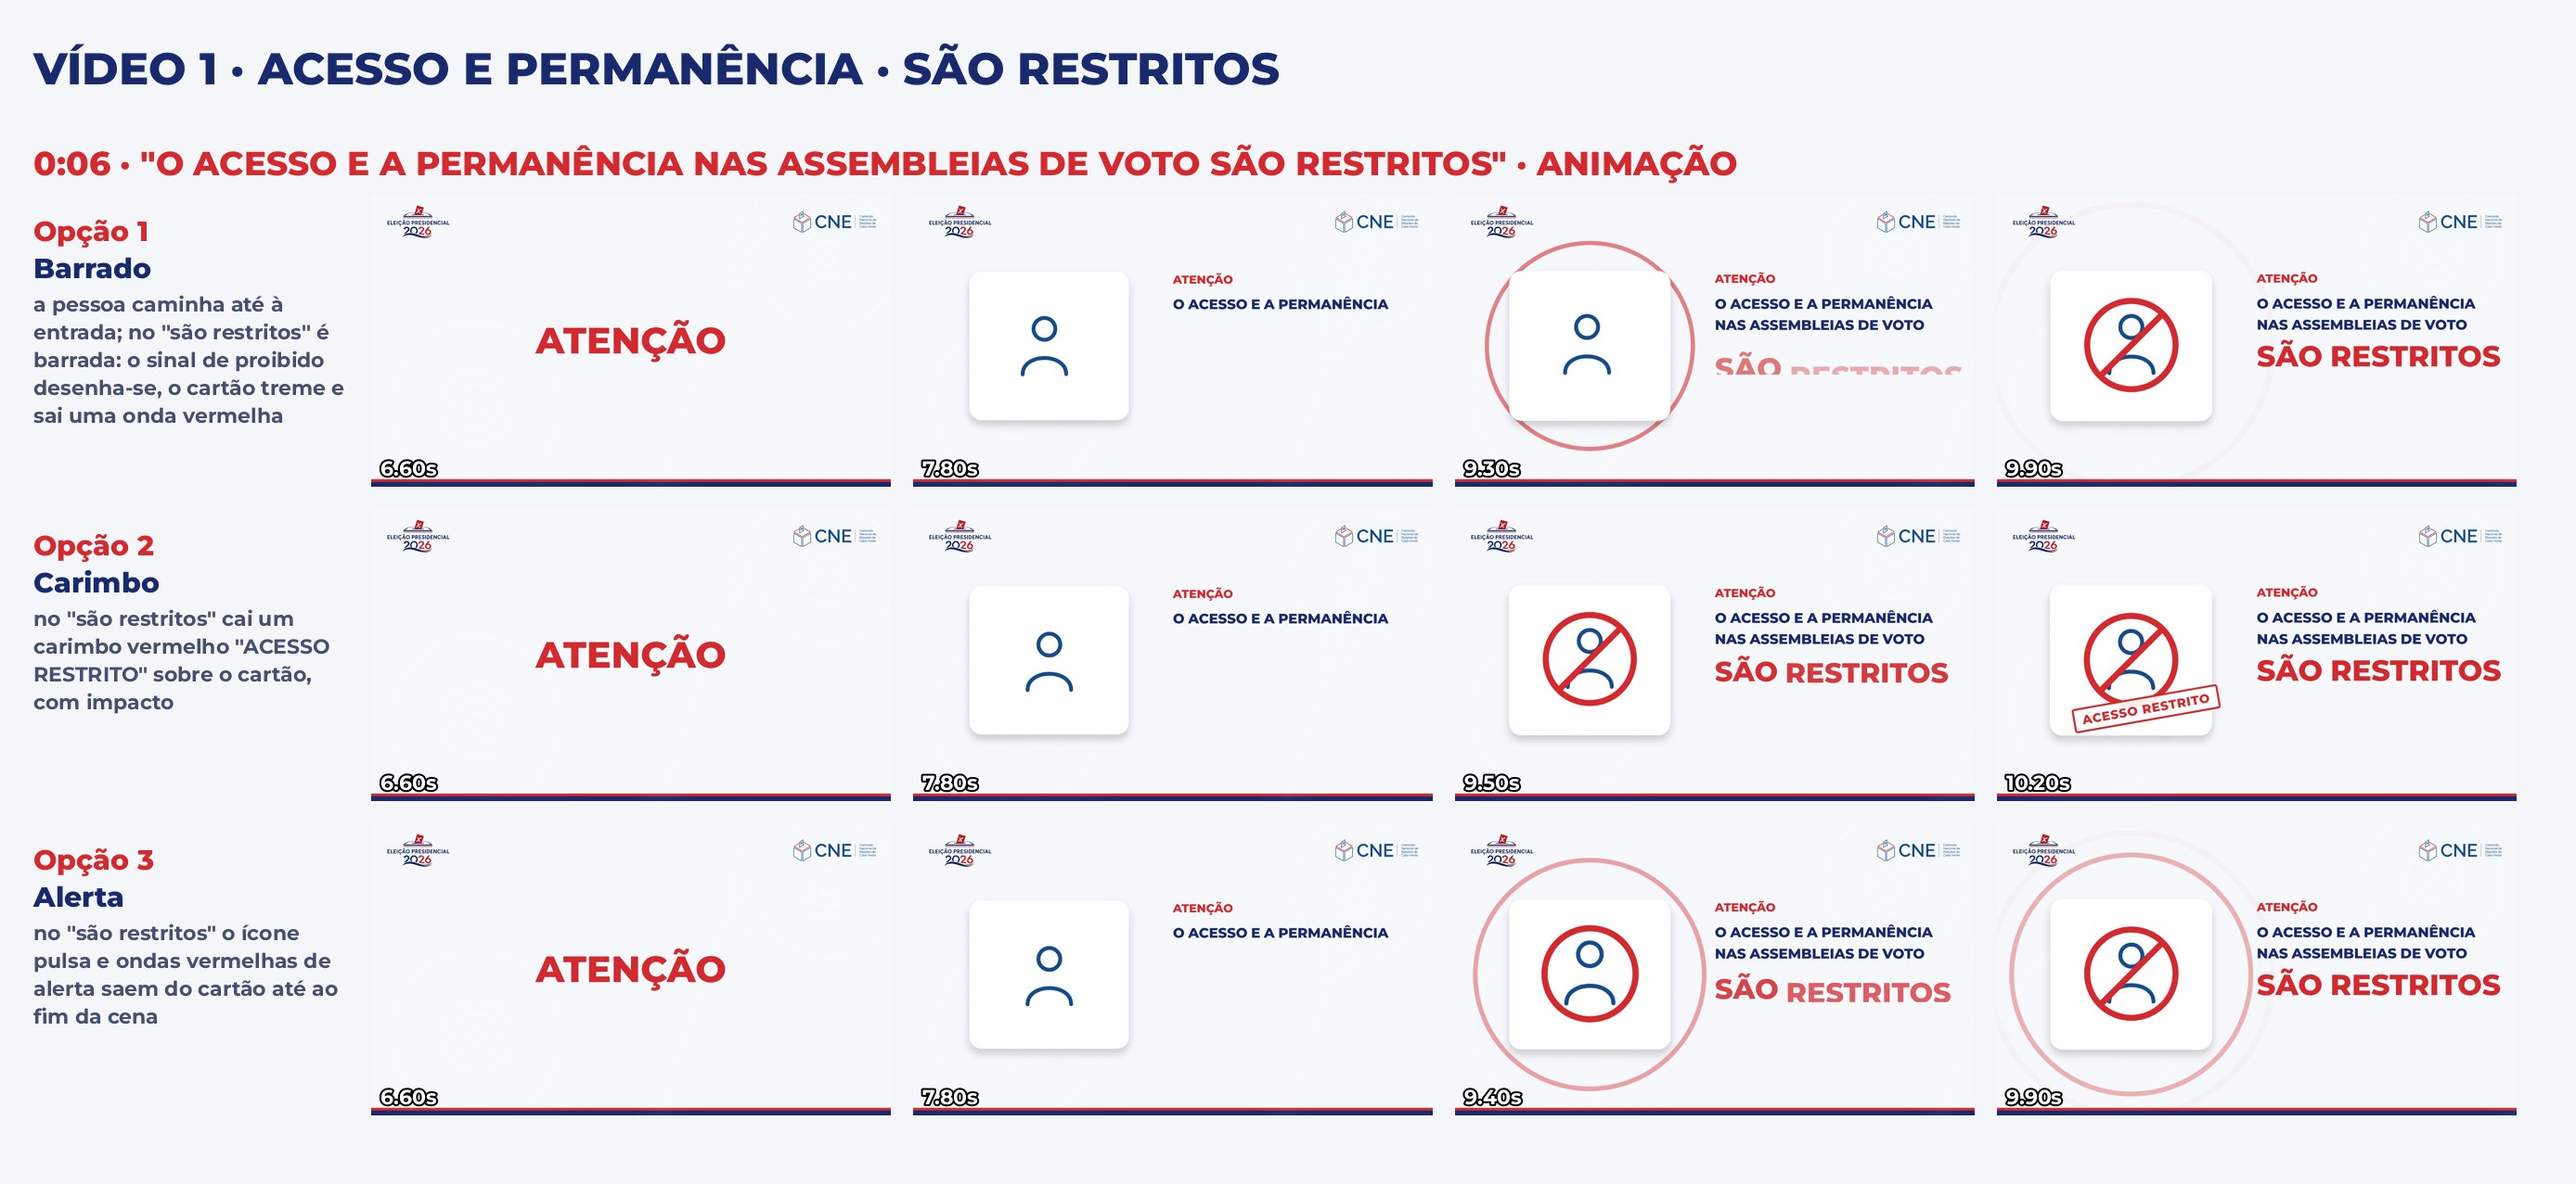
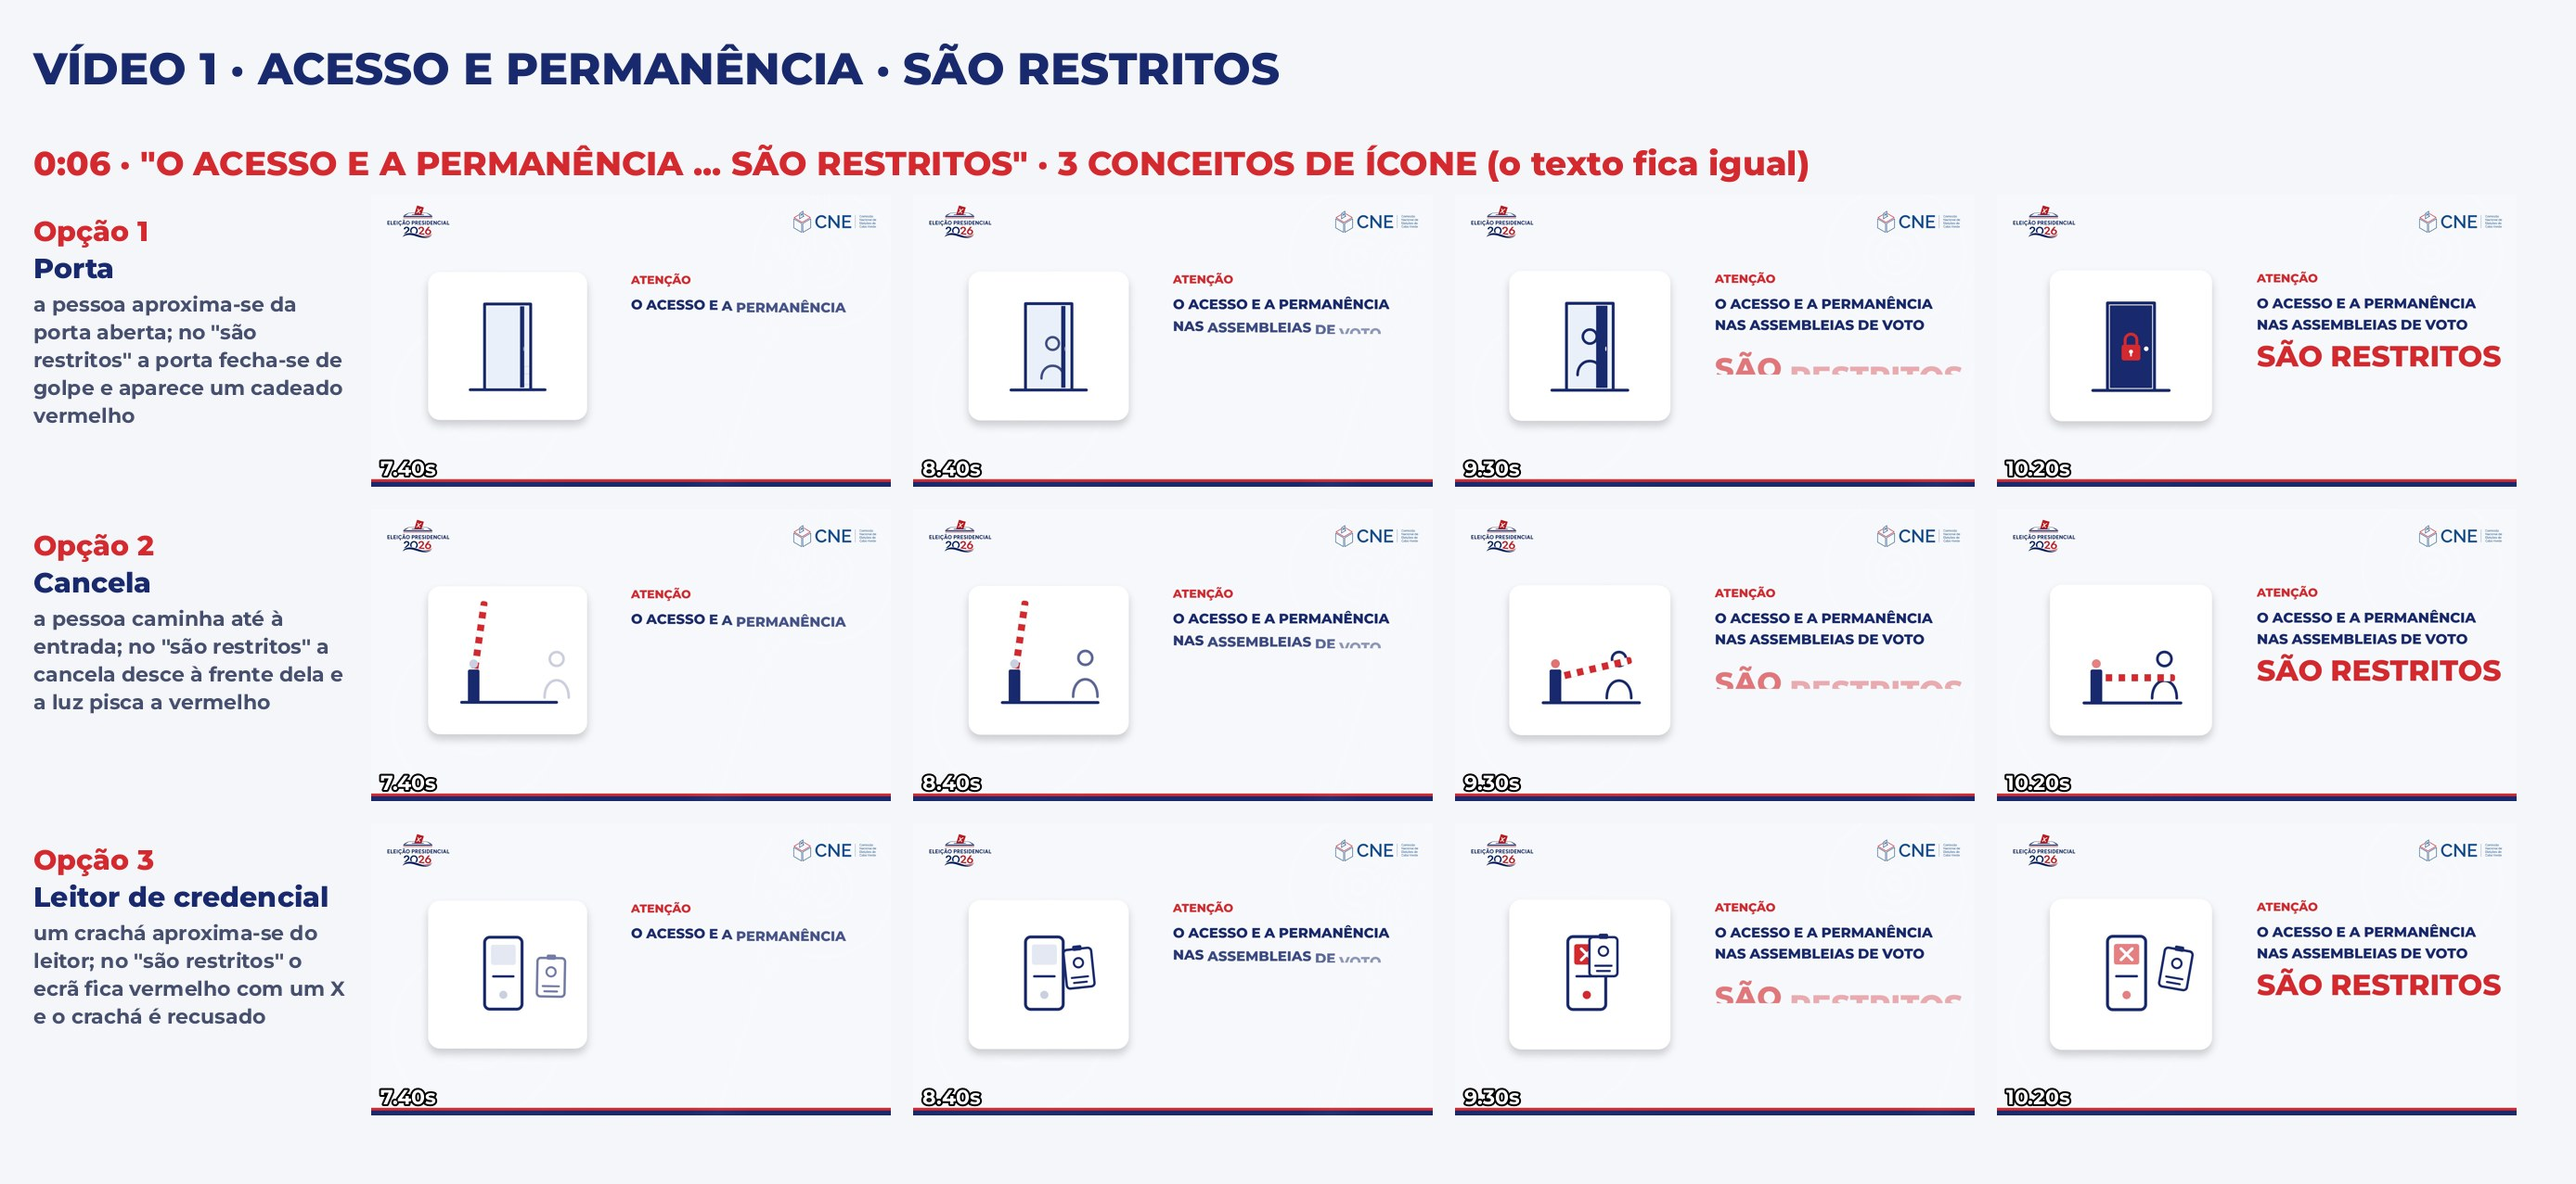
V1 'são restritos': 3 conceitos de ícone (porta, cancela, leitor de credencial) + blueprint
Claude-Session: https://claude.ai/code/session_01B7qCVcC1uXVL2xuSSAUW2M

diff --git a/comunicado_regras/novos_src/motion/v1anim.html b/comunicado_regras/novos_src/motion/v1anim.html
@@ -160,6 +160,7 @@ function svgIcon(p,kind,st,cx,cy,s2,ts,t1){
   if(kind=='portaentra'){tl.to(s.querySelector('.arrow'),{x:-7,duration:.45,yoyo:true,repeat:Math.max(1,Math.floor((t1-after)/.45)-1),ease:'sine.inOut'},after)}
   if(kind=='saida'){tl.to(s.querySelector('.arrow'),{x:7,duration:.45,yoyo:true,repeat:Math.max(1,Math.floor((t1-after)/.45)-1),ease:'sine.inOut'},after)}
   if(kind=='cadeado'){const sh=s.querySelector('.sh');tl.fromTo(sh,{y:-14},{y:0,duration:.25,ease:'power4.in'},9.1);tl.to(s,{scale:1.08,duration:.1,yoyo:true,repeat:1},9.35)}
+  const GV=['G1','G2','G3'].find(k=>OPT.has(k));if(kind=='semacesso'&&window.VID=='V1'&&GV){s.style.display='none';restrIcon(p,cx,cy,GV,T,ts[1],t1);return}
   if(kind=='semacesso'){tl.fromTo(s.querySelector('.no'),{scale:1.4,transformOrigin:'50% 50%'},{scale:1,duration:.4,ease:'back.out(2)'},ts[1])}
   const EV=['E1','E2','E3'].find(k=>OPT.has(k));
   if(kind=='semacesso'&&window.VID=='V1'&&EV){const pg=s.querySelector('g[data-g="0"]'),cd=p.querySelector('.card')||s,R=ts[1];
@@ -242,6 +243,43 @@ function credBadges(g,C,t0,t1){const tC=54.66;
     seal(g,1555,905,tC)}}
 function seal(g,cx,cy,t){const s=el('div','abs',g,`left:${cx-80}px;top:${cy-80}px;width:160px;height:160px;border-radius:50%;border:8px solid #D4292E;color:#D4292E;font-weight:800;font-size:46px;display:flex;align-items:center;justify-content:center;background:rgba(255,255,255,.9);z-index:9`);s.textContent='CNE';
   tl.fromTo(s,{scale:2.4,opacity:0,rotation:-25},{scale:1,opacity:1,rotation:-12,duration:.45,ease:'power4.in'},t);tl.fromTo(s,{scale:1},{scale:1.08,duration:.15,yoyo:true,repeat:1},t+.45)}
+
+// ---------- "são restritos": 3 conceitos de ícone animado (G1 porta, G2 cancela, G3 leitor de credencial) ----------
+function restrIcon(p,cx,cy,G,T,R,t1){const N='http://www.w3.org/2000/svg',sv=document.createElementNS(N,'svg'),NV='#19296D',RD2='#D4292E';
+  sv.setAttribute('viewBox','0 0 400 400');sv.style.cssText=`position:absolute;left:${cx-210}px;top:${cy-210}px;width:420px;height:420px;overflow:visible`;p.appendChild(sv);
+  const q=x=>sv.querySelector(x),qa=x=>[...sv.querySelectorAll(x)];
+  const draw=(els,t)=>{els.forEach(e=>{e.setAttribute('pathLength','1');e.style.strokeDasharray='1 1.02'});tl.fromTo(els,{strokeDashoffset:1},{strokeDashoffset:0,duration:.6,stagger:.08,ease:'power2.inOut'},t)};
+  if(G=='G1'){ // porta: a pessoa aproxima-se, a porta fecha-se e tranca
+    sv.innerHTML=`<rect x="128" y="62" width="144" height="282" fill="#EAF0FA"/>
+      <g class="ps"><circle cx="200" cy="168" r="24" fill="none" stroke="${NV}" stroke-width="9"/><path d="M158,300 C158,236 242,236 242,300" fill="none" stroke="${NV}" stroke-width="9" stroke-linecap="round"/></g>
+      <g class="lf"><rect x="128" y="62" width="144" height="282" fill="${NV}"/><circle cx="252" cy="210" r="8" fill="#fff"/></g>
+      <path class="dr" d="M120,350 L120,54 L280,54 L280,350" fill="none" stroke="${NV}" stroke-width="10" stroke-linejoin="round"/><path class="dr" d="M70,352 L330,352" stroke="${NV}" stroke-width="10" stroke-linecap="round"/>
+      <g class="lk"><rect x="168" y="196" width="64" height="54" rx="8" fill="${RD2}"/><path d="M180,196 L180,180 A20,20 0 0 1 220,180 L220,196" fill="none" stroke="${RD2}" stroke-width="10"/><circle cx="200" cy="220" r="7" fill="#fff"/><path d="M200,222 L200,236" stroke="#fff" stroke-width="6"/></g>`;
+    draw(qa('.dr'),T);tl.fromTo(q('.ps'),{scale:.55,opacity:0,transformOrigin:'200px 300px'},{scale:1,opacity:1,duration:R-T-.4,ease:'power1.inOut'},T+.3);
+    tl.fromTo(q('.lf'),{scaleX:.1,transformOrigin:'128px 200px'},{scaleX:.1},0);tl.set(q('.lf'),{opacity:0},0);tl.set(q('.lf'),{opacity:1},T+.3);
+    tl.to(q('.lf'),{scaleX:1,duration:.38,ease:'power3.in'},R-.05);tl.to(sv,{x:6,duration:.05,yoyo:true,repeat:3},R+.33);
+    tl.fromTo(q('.lk'),{scale:0,transformOrigin:'200px 215px'},{scale:1,duration:.45,ease:'back.out(3)'},R+.45)}
+  if(G=='G2'){ // cancela: a pessoa caminha, a barreira desce à frente dela
+    let st='';for(let i=0;i<6;i++)st+=`<rect x="${92+i*44}" y="248" width="22" height="24" fill="#fff"/>`;
+    sv.innerHTML=`<g class="ps"><circle cx="300" cy="196" r="24" fill="none" stroke="${NV}" stroke-width="9"/><path d="M258,330 C258,250 342,250 342,330" fill="none" stroke="${NV}" stroke-width="9" stroke-linecap="round"/></g>
+      <path class="dr" d="M40,346 L370,346" stroke="${NV}" stroke-width="10" stroke-linecap="round"/>
+      <g class="arm"><rect x="80" y="248" width="270" height="24" rx="8" fill="${RD2}"/>${st}</g>
+      <rect x="62" y="232" width="40" height="114" rx="6" fill="${NV}"/><circle class="lt" cx="82" cy="212" r="15" fill="#C9D0E2"/>`;
+    draw(qa('.dr'),T);tl.fromTo(q('.ps'),{x:90,opacity:0},{x:0,opacity:1,duration:R-T-.3,ease:'none'},T+.2);
+    tl.fromTo(q('.ps'),{y:0},{y:-5,duration:.2,yoyo:true,repeat:Math.max(1,Math.floor((R-T-.5)/.2)),ease:'sine.inOut'},T+.2);
+    tl.fromTo(q('.arm'),{rotation:-82,svgOrigin:'82 260'},{rotation:-82,svgOrigin:'82 260'},0);
+    tl.to(q('.arm'),{rotation:0,duration:.75,ease:'bounce.out',svgOrigin:'82 260'},R-.05);tl.to(q('.ps'),{x:14,duration:.18,ease:'power2.out'},R+.25);
+    tl.to(q('.lt'),{fill:RD2,duration:.01},R);tl.to(q('.lt'),{opacity:.25,duration:.22,yoyo:true,repeat:Math.max(1,Math.floor((t1-R-.3)/.22)),ease:'none'},R+.1)}
+  if(G=='G3'){ // leitor de credencial: o crachá aproxima-se e é recusado
+    sv.innerHTML=`<g class="dv"><rect class="dr" x="120" y="70" width="130" height="250" rx="18" fill="#fff" stroke="${NV}" stroke-width="10"/><rect class="sc" x="142" y="96" width="86" height="70" rx="8" fill="#E3E8F2"/>
+      <path class="x" d="M166,112 L204,150 M204,112 L166,150" stroke="#fff" stroke-width="10" stroke-linecap="round" opacity="0"/><path class="dr" d="M150,206 L220,206" stroke="${NV}" stroke-width="8" stroke-linecap="round"/><circle class="lt" cx="185" cy="270" r="14" fill="#C9D0E2"/></g>
+      <g class="bd"><rect x="250" y="150" width="96" height="134" rx="12" fill="#fff" stroke="${NV}" stroke-width="8"/><rect x="282" y="138" width="32" height="18" rx="5" fill="${NV}"/><circle cx="298" cy="198" r="16" fill="none" stroke="${NV}" stroke-width="7"/><path d="M270,248 L326,248 M276,266 L320,266" stroke="${NV}" stroke-width="7" stroke-linecap="round"/></g>`;
+    draw(qa('.dr'),T);tl.fromTo(q('.bd'),{x:120,y:40,rotation:12,opacity:0,svgOrigin:'298 217'},{x:0,y:0,rotation:-6,opacity:1,duration:1.2,ease:'power3.out',svgOrigin:'298 217'},T+.4);
+    tl.to(q('.bd'),{x:-62,y:-40,rotation:0,duration:.6,ease:'power2.inOut',svgOrigin:'298 217'},R-.6);
+    tl.to(q('.sc'),{fill:RD2,duration:.01},R);tl.to(q('.x'),{opacity:1,duration:.01},R);tl.to(q('.lt'),{fill:RD2,duration:.01},R);
+    tl.to(q('.dv'),{x:7,duration:.05,yoyo:true,repeat:5},R+.02);tl.to(q('.bd'),{x:30,y:10,rotation:10,duration:.5,ease:'power3.out',svgOrigin:'298 217'},R+.25);
+    tl.to([q('.sc'),q('.lt')],{opacity:.5,duration:.25,yoyo:true,repeat:Math.max(1,Math.floor((t1-R-.5)/.25)),ease:'none'},R+.4)}
+  tl.fromTo(sv,{opacity:0},{opacity:1,duration:.3},T)}
 // ---------- estilo / transições ----------
 function setStyle(st,t){const A=st=='A';
   tl.set('#bgB',{opacity:A?0:1},t);tl.set(['#leA','#lcA'],{opacity:A?1:0},t);tl.set(['#leB','#lcB'],{opacity:A?0:1},t)}

diff --git a/comunicado_regras/novos_src/bp_v1_restritos.py b/comunicado_regras/novos_src/bp_v1_restritos.py
@@ -1,8 +1,8 @@
 exec(open('bp_v1_saoeles3.py').read().split("R=[")[0].replace("by_{o}","br_{o}"))
-R=[('0:06 · "O ACESSO E A PERMANÊNCIA NAS ASSEMBLEIAS DE VOTO SÃO RESTRITOS" · ANIMAÇÃO',[
-   ('Opção 1 · Barrado','a pessoa caminha até à entrada; no "são restritos" é barrada: o sinal de proibido desenha-se, o cartão treme e sai uma onda vermelha','T1,R2,L9,F2,K1,C1,X1,E1',[6.6,7.8,9.3,9.9]),
-   ('Opção 2 · Carimbo','no "são restritos" cai um carimbo vermelho "ACESSO RESTRITO" sobre o cartão, com impacto','T1,R2,L9,F2,K1,C1,X1,E2',[6.6,7.8,9.5,10.2]),
-   ('Opção 3 · Alerta','no "são restritos" o ícone pulsa e ondas vermelhas de alerta saem do cartão até ao fim da cena','T1,R2,L9,F2,K1,C1,X1,E3',[6.6,7.8,9.4,9.9])])]
+R=[('0:06 · "O ACESSO E A PERMANÊNCIA ... SÃO RESTRITOS" · 3 CONCEITOS DE ÍCONE (o texto fica igual)',[
+   ('Opção 1 · Porta','a pessoa aproxima-se da porta aberta; no "são restritos" a porta fecha-se de golpe e aparece um cadeado vermelho','T1,R2,L9,F2,K1,C1,X1,G1',[7.4,8.4,9.3,10.2]),
+   ('Opção 2 · Cancela','a pessoa caminha até à entrada; no "são restritos" a cancela desce à frente dela e a luz pisca a vermelho','T1,R2,L9,F2,K1,C1,X1,G2',[7.4,8.4,9.3,10.2]),
+   ('Opção 3 · Leitor de credencial','um crachá aproxima-se do leitor; no "são restritos" o ecrã fica vermelho com um X e o crachá é recusado','T1,R2,L9,F2,K1,C1,X1,G3',[7.4,8.4,9.3,10.2])])]
 tw,th=560,315; LW=400; G=24
 rows=sum(len(r[1]) for r in R); H=150+len(R)*70+rows*(th+G)+40
 W=Image.new('RGB',(LW+4*(tw+G)+40,H),(244,246,250)); d=ImageDraw.Draw(W)
